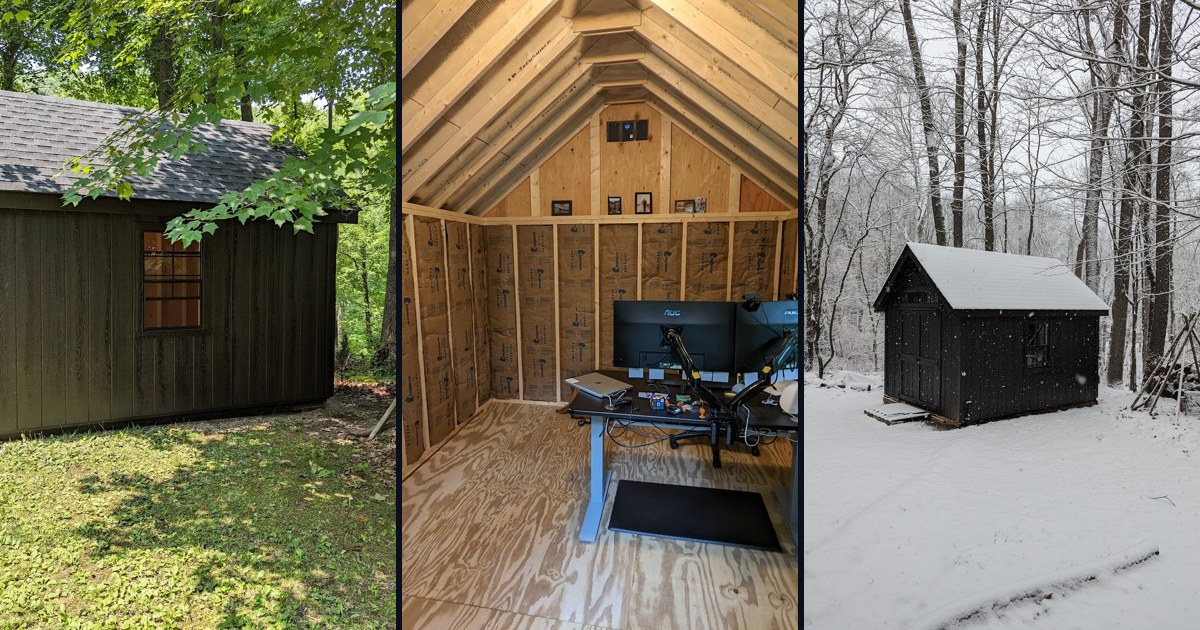
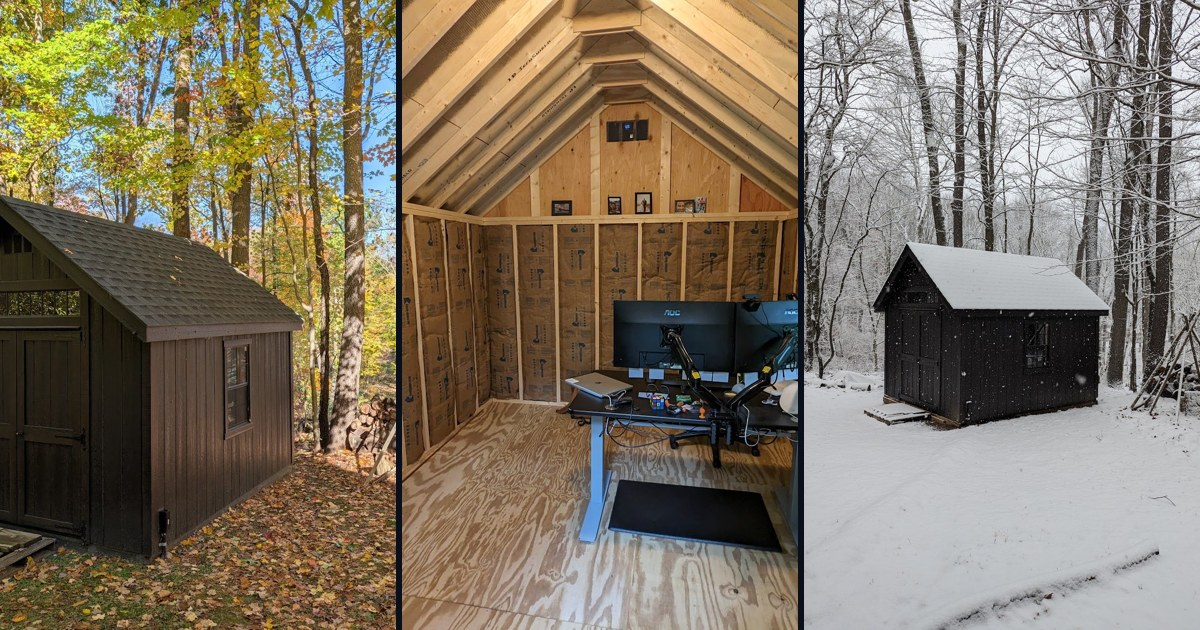
Add 2024 wall-mounted weather TV and 2025 autumn foliage photos

diff --git a/public/index.html b/public/index.html
@@ -69,9 +69,9 @@
           Here’s the quick visual tour: tucked into the treeline 30 seconds from the house, moved into the same afternoon it slid off the trailer, and insulated for four Michigan seasons.
         </p>
 
-        <!-- Hero 3-Card Bento Snapshot -->
+        <!-- Hero 4-Card Bento Snapshot (Interior + 3 Seasons) -->
         <div class="hero-bento">
-          <button class="bento-card bento-main" data-photo-id="16" aria-label="View interior office setup photo">
+          <button class="bento-card" data-photo-id="16" aria-label="View interior office setup photo">
             <img src="/images/16-walls-insulated-ac.jpg" alt="Inside the shed office showing standing desk, dual monitors, window AC, and insulated stud walls" loading="eager" />
             <div class="bento-overlay">
               <span class="bento-tag">Inside the Office</span>
@@ -79,11 +79,19 @@
             </div>
           </button>
 
+          <button class="bento-card" data-photo-id="25" aria-label="View autumn foliage exterior photo">
+            <img src="/images/25-autumn-canopy-exterior.jpg" alt="The office shed under a bright golden autumn canopy in October 2025" loading="eager" />
+            <div class="bento-overlay">
+              <span class="bento-tag">Autumn · Oct 2025</span>
+              <p class="bento-caption">Peak golden Michigan fall foliage towering over the shed</p>
+            </div>
+          </button>
+
           <button class="bento-card" data-photo-id="10" aria-label="View summer exterior photo">
             <img src="/images/10-tucked-in-trees.jpg" alt="Dark wood-stained office shed tucked into the green summer woods" loading="eager" />
             <div class="bento-overlay">
-              <span class="bento-tag">Summer · July 2023</span>
-              <p class="bento-caption">Nestled right against the backyard treeline</p>
+              <span class="bento-tag">Summer · Jul 2023</span>
+              <p class="bento-caption">Tucked right into the green summer treeline</p>
             </div>
           </button>
 
@@ -179,11 +187,12 @@
           </div>
 
           <div class="filter-bar" role="tablist" aria-label="Filter photos by stage">
-            <button class="filter-pill active" data-filter="all">All Stages (23)</button>
+            <button class="filter-pill active" data-filter="all">All Stages (26)</button>
             <button class="filter-pill" data-filter="delivery">01 · Delivery Day</button>
             <button class="filter-pill" data-filter="day-one">02 · Day 1 Move-In</button>
             <button class="filter-pill" data-filter="insulation">03 · Power & Insulation</button>
             <button class="filter-pill" data-filter="winter">04 · Winterized</button>
+            <button class="filter-pill" data-filter="seasons">05 · Four Seasons</button>
           </div>
         </div>
 
@@ -194,7 +203,7 @@
         <!-- Full Album Banner -->
         <div class="album-cta">
           <div class="album-cta-text">
-            <h3>Want to see all 68 raw photos & delivery videos?</h3>
+            <h3>Want to see all 71 raw photos & delivery videos?</h3>
             <p>The full Google Photos album includes the trailer backing videos and every step in between.</p>
           </div>
           <a href="https://photos.app.goo.gl/he7WUdpjvK15HbTU6" target="_blank" rel="noopener noreferrer" class="btn-primary">

diff --git a/public/js/app.js b/public/js/app.js
@@ -192,11 +192,42 @@ const CHAPTERS = [
         caption: "Square D load center cleanly surrounded by kraft-faced batt insulation."
       },
       {
+        id: "24",
+        src: "/images/24-wall-mounted-weather-tv.jpg",
+        date: "Jan 8, 2024",
+        title: "Wall-Mounted Weather Radar Display",
+        caption: "Mounted a secondary TV display by the barn doors and transom window to track incoming Michigan winter storms."
+      },
+      {
         id: "23",
         src: "/images/23-snowy-woods-winter-shed.jpg",
         date: "Jan 11, 2024",
         title: "Snow Day in the Woods",
         caption: "January snowstorm in Michigan—quiet snow-covered trees all around and a warm, focused office inside."
+      }
+    ]
+  },
+  {
+    id: "seasons",
+    badge: "STAGE 05 · SETTLED INTO THE WOODS",
+    dateRange: "2024 – October 2025",
+    title: "Four Seasons Under the Trees",
+    description:
+      "Over two years into working from the shed full-time, it’s completely settled into the landscape—from bright green summer mornings and snowy January afternoons to a towering canopy of golden Michigan autumn leaves.",
+    photos: [
+      {
+        id: "25",
+        src: "/images/25-autumn-canopy-exterior.jpg",
+        date: "Oct 21, 2025",
+        title: "Autumn in the Michigan Woods",
+        caption: "Surrounded by peak fall foliage, stacked firewood, and a carpet of October leaves."
+      },
+      {
+        id: "26",
+        src: "/images/26-golden-fall-foliage.jpg",
+        date: "Oct 21, 2025",
+        title: "Under the Golden Canopy",
+        caption: "Looking up at the bright yellow and orange autumn canopy towering over the office shed."
       }
     ]
   }

diff --git a/public/css/styles.css b/public/css/styles.css
@@ -222,8 +222,8 @@ button {
 /* Hero Bento Showcase */
 .hero-bento {
   display: grid;
-  grid-template-columns: 1.45fr 1fr;
-  grid-template-rows: 230px 230px;
+  grid-template-columns: 1.25fr 1fr;
+  grid-template-rows: 250px 250px;
   gap: 1rem;
   margin-bottom: 1.5rem;
 }
@@ -789,12 +789,7 @@ button {
 @media (max-width: 860px) {
   .hero-bento {
     grid-template-columns: 1fr 1fr;
-    grid-template-rows: 260px 190px;
-  }
-
-  .bento-main {
-    grid-column: 1 / span 2;
-    grid-row: 1;
+    grid-template-rows: 220px 220px;
   }
 
   .specs-grid {
@@ -817,11 +812,7 @@ button {
 
   .hero-bento {
     grid-template-columns: 1fr;
-    grid-template-rows: 230px 180px 180px;
-  }
-
-  .bento-main {
-    grid-column: 1;
+    grid-template-rows: repeat(4, 200px);
   }
 
   .specs-grid {

diff --git a/README.md b/README.md
@@ -11,11 +11,12 @@ A fast, lightweight static micro-site showcasing my backyard shed-to-office conv
 
 - **Hero Bento Showcase & Specs Bar**: Immediate visual overview of the exterior in summer, the interior multi-monitor desk setup, and the snow-covered winter woods, alongside key specs (~30-second commute, 4.5-hour day-one move-in, R-13 + R-5 insulation, buried conduit + Square D subpanel).
 - **"Questions People Ask on Calls" FAQ**: Answers the most common questions about heating in Michigan winters, power & internet trenching, and moving in the same afternoon it was delivered.
-- **4-Stage Chronological Build Tour (23 Curated Photos)**:
+- **5-Stage Chronological Build & Seasons Tour (26 Curated Photos)**:
   1. **Stage 01 · Delivery Day** (June – July 25, 2023): Leveling the gravel pad and backing the shed across the lawn.
   2. **Stage 02 · Day 1 Move-In** (July 25, 2023): Bare 2×4 studs and moving the standing desk in 4.5 hours after delivery on a yellow extension cord.
   3. **Stage 03 · Power & Insulation** (July – October 2023): Square D subpanel, R-13 kraft-faced fiberglass batts, window A/C, and trenching electrical conduit from the main house.
-  4. **Stage 04 · Winterized in the Woods** (December 2023 – January 2024): Foamular R-5 ceiling panels, space heater, and snowstorms in the woods.
+  4. **Stage 04 · Winterized in the Woods** (December 2023 – January 2024): Foamular R-5 ceiling panels, space heater, wall-mounted weather radar TV, and snowstorms in the woods.
+  5. **Stage 05 · Settled Into the Woods** (2024 – October 2025): Two years in—towering golden Michigan autumn foliage over the shed.
 - **Interactive Lightbox & Stage Filters**: Keyboard-navigable (`←`, `→`, `Esc`) full-screen photo viewer and dark/light theme toggle.
 
 ---
